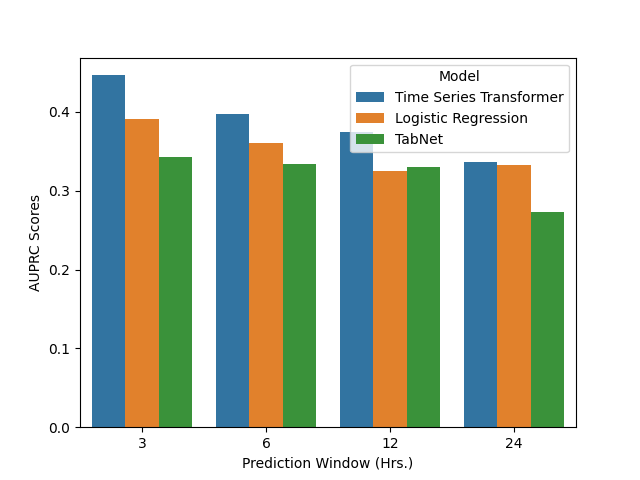
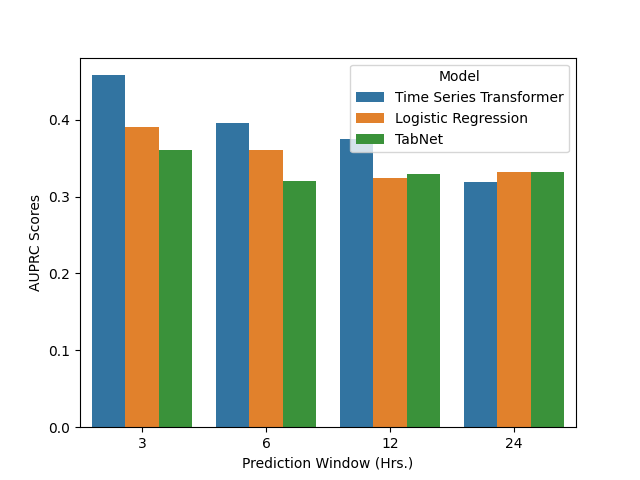
Check in optimal parameters for each window

diff --git a/src/tabsep/modeling/skorchTSTRunner.py b/src/tabsep/modeling/skorchTSTRunner.py
@@ -15,6 +15,32 @@ class TSTRunner(BaseModelRunner):
     save_dir = "cache/TST"
 
     params_by_window = {
+        3: {
+            "lr": 5.93763555473408e-05,
+            "dropout": 0.16165102138970905,
+            "d_model_multiplier": 2,
+            "num_layers": 13,
+            "n_heads": 16,
+            "dim_feedforward": 227,
+            "batch_size": 44,
+            "pos_encoding": "fixed",
+            "activation": "relu",
+            "norm": "BatchNorm",
+            "weight_decay": 0,
+        },
+        6: {
+            "lr": 4.17144588637386e-05,
+            "dropout": 0.1674977719562643,
+            "d_model_multiplier": 8,
+            "num_layers": 12,
+            "n_heads": 4,
+            "dim_feedforward": 260,
+            "batch_size": 34,
+            "pos_encoding": "fixed",
+            "activation": "gelu",
+            "norm": "BatchNorm",
+            "weight_decay": 0.01,
+        },
         12: {
             "lr": 2.1256858803320374e-05,
             "dropout": 0.11238558423398054,
@@ -27,7 +53,20 @@ class TSTRunner(BaseModelRunner):
             "activation": "relu",
             "norm": "BatchNorm",
             "weight_decay": 0.01,
-        }
+        },
+        24: {
+            "lr": 4.0149853574390136e-05,
+            "dropout": 0.1281287413929199,
+            "d_model_multiplier": 2,
+            "num_layers": 9,
+            "n_heads": 8,
+            "dim_feedforward": 394,
+            "batch_size": 233,
+            "pos_encoding": "fixed",
+            "activation": "gelu",
+            "norm": "BatchNorm",
+            "weight_decay": 0,
+        },
     }
 
     def __init__(self, default_cmd="cv") -> None:

diff --git a/src/tabsep/modeling/tabnetRunner.py b/src/tabsep/modeling/tabnetRunner.py
@@ -29,6 +29,26 @@ class TabnetRunner(BaseModelRunner):
     save_dir = "cache/Tabnet"
 
     params_by_window = {
+        3: {
+            "n_d": 64,
+            "n_steps": 3,
+            "gamma": 1.6940171928168515,
+            "n_independent": 2,
+            "momentum": 0.017399860200337933,
+            "mask_type": "entmax",
+            "optimizer_lr": 0.028302691823119782,
+            "fit_batch_size": 281,
+        },
+        6: {
+            "n_d": 64,
+            "n_steps": 3,
+            "gamma": 1.3337442677169153,
+            "n_independent": 2,
+            "momentum": 0.06488416946319822,
+            "mask_type": "entmax",
+            "optimizer_lr": 0.0016921220452452079,
+            "fit_batch_size": 108,
+        },
         12: {
             "n_d": 64,
             "n_steps": 3,
@@ -38,7 +58,17 @@ class TabnetRunner(BaseModelRunner):
             "mask_type": "entmax",
             "optimizer_lr": 0.028302691823119782,
             "fit_batch_size": 281,
-        }
+        },
+        24: {
+            "n_d": 64,
+            "n_steps": 3,
+            "gamma": 1.6940171928168515,
+            "n_independent": 2,
+            "momentum": 0.017399860200337933,
+            "mask_type": "entmax",
+            "optimizer_lr": 0.028302691823119782,
+            "fit_batch_size": 281,
+        },
     }
 
     def __init__(self, default_cmd="cv") -> None:

diff --git a/src/tabsep/modeling/tuneTabnet.py b/src/tabsep/modeling/tuneTabnet.py
@@ -18,7 +18,7 @@ def objective(trial: optuna.Trial, X, y) -> float:
     trial.suggest_float("momentum", 0.01, 0.4, log=True)
     trial.suggest_categorical("mask_type", ["sparsemax", "entmax"])
     trial.suggest_float("optimizer_lr", 1e-5, 0.1, log=True)
-    trial.suggest_int("fit_batch_size", 16, 2048, log=True)
+    trial.suggest_int("fit_batch_size", 256, 4096, log=True)
 
     # Tabnet appears to be sensitive to length
     skf = StratifiedKFold(n_splits=10)

diff --git a/src/tabsep/modeling/tabnet.py b/src/tabsep/modeling/tabnet.py
@@ -50,7 +50,7 @@ class CompatibleTabnet(TabNetClassifier):
         super().fit(
             X_train,
             y_train,
-            patience=3,
+            patience=10,
             eval_set=[(X_valid, y_valid)],
             eval_metric=["logloss", "auc"],
             **self.fit_params
